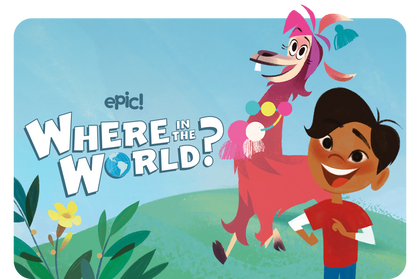
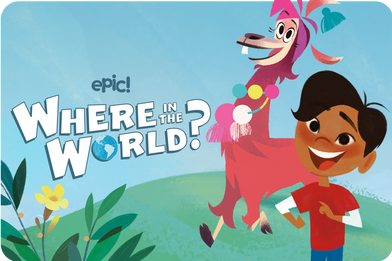
getting book from server and render to screen also add infinite scrolling

diff --git a/src/container/home/Main.js b/src/container/home/Main.js
@@ -1,14 +1,33 @@
-import React from 'react';
+import React, {useState, useEffect, useCallback, useRef} from 'react';
+import axios from '../../utils/axios/axios'
 import BookCard from '../../component/bookCard/BookCard';
 import HomePageCarosul from '../../component/homePagecarosul/HomePageCarosul'
 import OwlCarousel from 'react-owl-carousel';
 import 'owl.carousel/dist/assets/owl.carousel.css';
 import 'owl.carousel/dist/assets/owl.theme.default.css';
 import Navigation from '../../layout/Navigation';
+import Books from './Books'
+import DotSpinner from '../../component/spinner/DotSpinner';
 
-const main = () => {
+const Main = () => {
+    const [page, setPage] = useState(0)
+
+    const {loading, hasMore, book} = Books(page)
+
+    const observer = useRef()
+    const lastBookElementRef = useCallback(node => {
+        if(observer.current) observer.current.disconnect()
+        observer.current = new IntersectionObserver(entries => {
+            if(entries[0].isIntersecting && hasMore) {
+                setPage(prevPage => prevPage + 1)
+            }
+        })
+        if(node) observer.current.observe(node)
+    }, [book])
+
     return (
-        <>
+        <div id='scroll'>
+            
         <Navigation />
             <OwlCarousel items={1}
                 className="owl-theme"
@@ -18,33 +37,81 @@ const main = () => {
                     <HomePageCarosul />
                     <HomePageCarosul />
             </OwlCarousel>
-            <div className='main__books'>
-                <div className='main__books__category'>
-                    <p>Recent Added</p>
-                    <a href='/'>View More</a>
-                </div>
-                <div className='bookCard'>
-                    <BookCard width='25' />
-                    <BookCard width='25' />
-                    <BookCard width='25' />
-                    <BookCard width='25' />
-                </div>
-            </div>
-            <div className='main__books'>
-                <div className='main__books__category'>
-                    <p>Most Popular</p>
-                    <a href='/'>View More</a>
-                </div>
-                <div className='bookCard'>
-                    <BookCard width='25' />
-                    <BookCard width='25' />
-                    <BookCard width='25' />
-                    <BookCard width='25' />
-                </div>
+            {book.length === 0 ? <DotSpinner />: 
+            <div style={{width: '98%', margin: 'auto'}} >
+            {book.map((el, i) => {
+                if((i+1) === book.length) {
+                    return (
+                        <div className='main__books'  key={i}>
+                            <div className='main__books__category' >
+                                <p>{el._id}</p>
+                                <a href='/'>View More</a>
+                            </div>
+                            <div className='bookCard'>
+                                {el.books.map(el => <BookCard key={el.id} book={el.cardPhoto} width='25' /> )}
+                            </div>
+                            <div ref={lastBookElementRef} ></div>
+                        </div>
+                    )
+                } else {
+                    return (
+                        <div className='main__books' key={i}>
+                            <div className='main__books__category' >
+                                <p>{el._id}</p>
+                                <a href='/'>View More</a>
+                            </div>
+                            <div className='bookCard'>
+                                {el.books.map(el => <BookCard key={el.id} book={el.cardPhoto} width='25' /> )}
+                            </div>
+                            <div ></div>
+                        </div>
+                    )
+                }
                 
-            </div>
-        </>
+            })}
+            {loading ? <DotSpinner />: null}
+        </div>}
+        </div>
     );
 };
 
-export default main;
+export default Main;
+
+
+
+{/* <div className='main__books' >
+                    <div className='main__books__category' >
+                        <p>Recent Added</p>
+                        <a href='/'>View More</a>
+                    </div>
+                    <div className='bookCard'>
+                        <BookCard width='25' />
+                        <BookCard width='25' />
+                        <BookCard width='25' />
+                        <BookCard width='25' />
+                    </div>
+                </div>
+                <div className='main__books'>
+                    <div className='main__books__category'>
+                        <p>Most Popular</p>
+                        <a href='/'>View More</a>
+                    </div>
+                    <div className='bookCard'>
+                        <BookCard width='25' />
+                        <BookCard width='25' />
+                        <BookCard width='25' />
+                        <BookCard width='25' />
+                    </div>
+                </div>
+                <div className='main__books'>
+                    <div className='main__books__category'>
+                        <p>Most Popular</p>
+                        <a href='/'>View More</a>
+                    </div>
+                    <div className='bookCard'>
+                        <BookCard width='25' />
+                        <BookCard width='25' />
+                        <BookCard width='25' />
+                        <BookCard width='25' />
+                    </div>
+                </div> */}

diff --git a/src/sass/component/_homePageCarosul.scss b/src/sass/component/_homePageCarosul.scss
@@ -12,22 +12,36 @@
             rgba($color-white, 1) 0%,
             rgba($color-white, 1) 20%,
             rgba($color-white, .9) 50%,
-            rgba($color-white, .0)),
-         url(../../assets/img/4.jpg);
+            rgba($color-white, .0));
         background-repeat: no-repeat;
         background-position: center;
         background-size: cover;
         height: 60vh;
 
+        &__background-img {
+            background-repeat: no-repeat;
+        background-position: center;
+        background-size: cover;
+            z-index: -1;
+            position: absolute;
+            left: 0;
+            top: 0;
+            width: 100%;
+            height: 60vh;
+        }
+
         &__content {
             display: flex;
             justify-content: space-between;
+            z-index: 10;
+            position: relative;
         }
         &__image {
             width: 30rem !important;
             margin-right: 20rem;
             margin-bottom: -7rem;
             margin-top: 7rem;
+            z-index: 10;
         }
 
         &__left__div {
@@ -36,8 +50,10 @@
             margin-top: 9%;
             width: 40%;
             height: 60%;
+            z-index: 10;
         }
         &__wishlist {
+            z-index: 10;
             cursor: pointer;
             background-color: white;
             display: inline-block;

diff --git a/src/container/home/Books.js b/src/container/home/Books.js
@@ -1,0 +1,29 @@
+import {useState, useEffect} from 'react'
+import axios from '../../utils/axios/axios'
+export default function Books(page)  {
+    const [book, setBook] = useState([])
+    const [loading, setLoading] = useState(true)
+    const [hasMore, setHasMore] = useState(false)
+    useEffect(() => {
+        setLoading(true)
+        setTimeout(() => {
+            axios({
+                method: 'GET',
+                url: '/book',
+                params: {l: 5, s: page}
+            }).then(res => {
+                setHasMore(res.data.data.book.length > 0)
+                setLoading(false)
+                let hhh = [...book, ...res.data.data.book]
+                hhh = [...new Map(hhh.map(item => [item["_id"], item])).values()]
+                setBook(hhh)
+                // setBook(preBook => [...new Set([...preBook, ...res.data.data.book.map(book => book._id)])])
+    
+            }).catch(err => {
+                setLoading(false)
+                console.log(err.response)
+            })
+        }, 1000)
+    }, [page])
+    return {book, loading, hasMore};
+};

diff --git a/src/sass/component/spinner/_spinner.scss b/src/sass/component/spinner/_spinner.scss
@@ -1,0 +1,24 @@
+.crabbly_spinner {
+    position: relative;
+    margin: 2rem auto;
+    width: 3rem;
+    height: 3rem;
+    -webkit-animation: crabbly_spinner infinite .75s linear;
+       -moz-animation: crabbly_spinner infinite .75s linear;
+         -o-animation: crabbly_spinner infinite .75s linear;
+            animation: crabbly_spinner infinite .75s linear;
+    border: 2px solid rgba(125, 125, 125, 0.9);
+    border-top-color: rgba(0, 0, 0, .1);
+    border-right-color: rgba(0, 0, 0, .1);
+    border-bottom-color: rgba(0, 0, 0, .1);
+    border-radius: 100%;
+}
+
+@keyframes crabbly_spinner {
+  from {
+    transform: rotate(0deg);
+  }
+  to {
+    transform: rotate(360deg);
+  }
+}

diff --git a/src/component/bookCard/BookCard.js b/src/component/bookCard/BookCard.js
@@ -6,7 +6,7 @@ const BookCard = (props) => {
     return (
         <a href='/bookdetail'>
             <div className={props.width === '25' ? 'bookCard__wrapper width25': 'bookCard__wrapper width33'} >
-                <img className='bookCard__wrapper__img' src={Book1} alt='book' />
+                <img className='bookCard__wrapper__img' src={`http://localhost:8000/${props.book}`} alt='book' />
                 <div className="main__carosoul__wishlist" style={{position: 'absolute', left: '2rem', bottom: '2rem'}} >
                     <svg className="nav__items__icon">
                         <use xlinkHref={`${Icon}#icon-home`}></use>

diff --git a/src/component/homePagecarosul/HomePageCarosul.js b/src/component/homePagecarosul/HomePageCarosul.js
@@ -1,10 +1,12 @@
 import React from 'react';
 import Icon from '../../assets/img/sprite.svg'
 import Book from '../../assets/img/little.png'
+import backgroundImg from '../../assets/img/2.jpg'
 
 const HomePageCarosul = () => {
     return (
         <div className='main__carosoul'>
+                <img src={backgroundImg} alt='background image' className='main__carosoul__background-img' />
                 <div className='main__carosoul__content'>
                     <div className='main__carosoul__left__div'>
                         <h1>Little Socks Makes a Friend</h1>

diff --git a/src/sass/component/_bookCard.scss b/src/sass/component/_bookCard.scss
@@ -1,18 +1,17 @@
 .bookCard {
     &__wrapper {
-        // background-color: brown;
         position: relative;
         display: inline-block;
         transform: scale(1);
         transition: all .2s ease-out;
         cursor: pointer;
         &__img {
-            width: 100%;
+            border-radius: 2rem;
+            width: 96%;
         }
-
         &:hover {
-            transform: scale(1.05);
-        }
+                transform: scale(1.05);
+            }
     }
 
     &:hover &__wrapper:not(:hover) {

diff --git a/src/sass/pages/home/_home.scss b/src/sass/pages/home/_home.scss
@@ -1,6 +1,8 @@
 .main {
     &__books {
-        margin: 6rem 0;
+        margin-top: 3rem;
+        margin-bottom: 1rem;
+        // margin: 6rem 0;
 
         &__category {
             display: flex;

diff --git a/src/sass/main.scss b/src/sass/main.scss
@@ -9,6 +9,7 @@
 @import 'base/reset';
 
 //COMPONENT
+@import 'component/spinner/spinner';
 @import 'component/spinner';
 @import 'component/error';
 @import 'component/homePageCarosul';

diff --git a/src/component/spinner/DotSpinner.js b/src/component/spinner/DotSpinner.js
@@ -1,0 +1,9 @@
+import React from 'react';
+
+const DotSpinner = () => {
+    return (
+        <div className="crabbly_spinner"></div>
+    );
+};
+
+export default DotSpinner;
